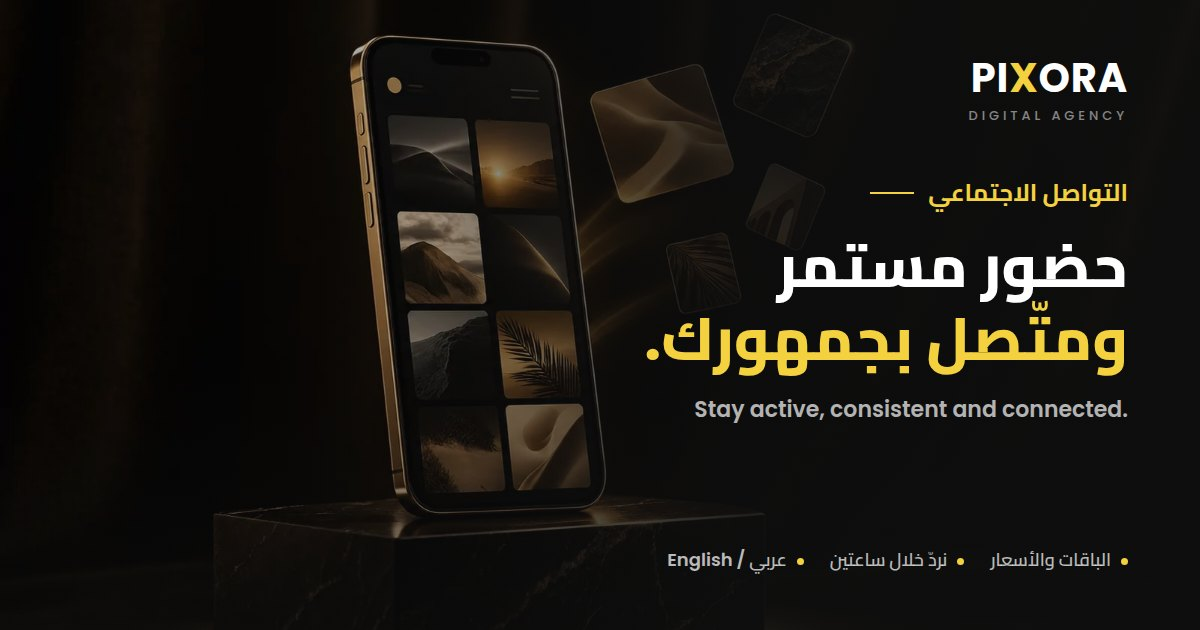
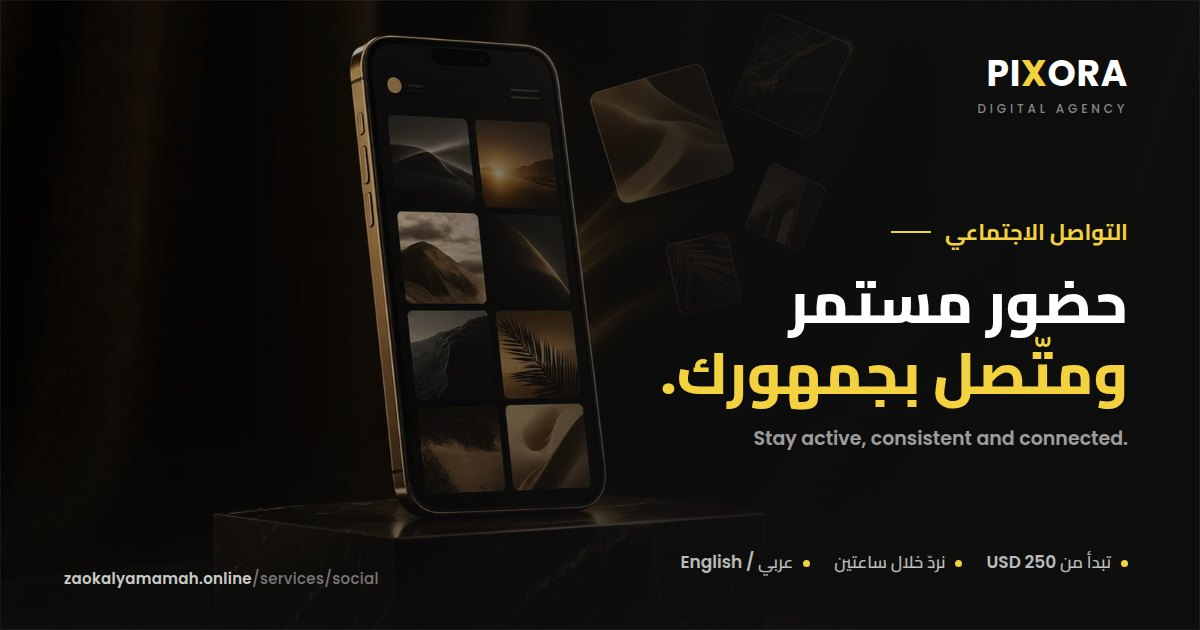
WIP: redesigned link-preview cards (awaiting owner review, not merged)
One design for every share image; own cards for story, about and pricing.
Held on this branch until the owner confirms; revert this commit to undo.

Claude-Session: https://claude.ai/code/session_01NJL9QvcoEBBfKSiRxG5s9B

diff --git a/tools/share-cards/base.css b/tools/share-cards/base.css
@@ -1,3 +1,8 @@
+/* One design for every link-preview card (1200×630), Arabic first:
+   the brand, an eyebrow, the page's own headline (its accent in yellow),
+   the English line, and a foot of facts; the page's address in the corner.
+   The visual sits opposite the text: work laid out like prints on a table
+   (the Story hero's language), or a page's cover photograph. */
 @font-face{font-family:Cairo;src:url(../../source/assets/fonts/cairo-arabic-var.woff2) format('woff2');font-weight:200 1000}
 @font-face{font-family:Poppins;src:url(../../source/assets/fonts/poppins-latin-500.woff2) format('woff2');font-weight:500}
 @font-face{font-family:Poppins;src:url(../../source/assets/fonts/poppins-latin-600.woff2) format('woff2');font-weight:600}
@@ -5,14 +10,29 @@
 *{box-sizing:border-box;margin:0}
 html,body{width:1200px;height:630px;overflow:hidden}
 body{background:#141414;color:#fff;font-family:Cairo,Poppins,sans-serif;position:relative}
-.glow{position:absolute;inset:0;background:radial-gradient(600px 420px at 78% 38%,rgba(244,209,63,.18),transparent 70%),radial-gradient(500px 200px at 70% 105%,rgba(244,209,63,.14),transparent 70%)}
-.brand{font-family:Poppins;font-weight:700;font-size:40px;letter-spacing:.02em;line-height:1}
+.glow{position:absolute;inset:0;background:radial-gradient(520px 420px at 24% 50%,var(--glow,rgba(244,209,63,.16)),transparent 72%)}
+.edge{position:absolute;inset:0;border:1px solid rgba(255,255,255,.06);pointer-events:none}
+.text{position:absolute;inset-block:56px 52px;inset-inline-start:72px;width:var(--text-w,540px);display:flex;flex-direction:column}
+.brand{font-family:Poppins;font-weight:700;font-size:36px;letter-spacing:.02em;line-height:1;direction:ltr;text-align:right}
 .brand b{color:#f4d13f}
-.tag{font-family:Poppins;font-weight:500;font-size:13px;letter-spacing:.3em;color:rgba(255,255,255,.5);margin-top:8px;text-transform:uppercase}
-.acc{color:#f4d13f}
-.pill{display:inline-flex;align-items:center;gap:10px;height:54px;padding:0 30px;border-radius:999px;background:#f4d13f;color:#202020;font-weight:700;font-size:22px}
-.pill--ghost{background:transparent;color:#fff;border:1.5px solid rgba(255,255,255,.3)}
-.frame{border-radius:16px;overflow:hidden;border:1px solid rgba(255,255,255,.12);background:#0e0e0e;box-shadow:0 30px 60px -20px rgba(0,0,0,.7)}
-.frame img{display:block;width:100%;height:100%;object-fit:cover}
-.meta{display:flex;gap:26px;font-size:18px;color:rgba(255,255,255,.72);font-weight:600}
-.meta span::before{content:"";display:inline-block;width:7px;height:7px;border-radius:50%;background:#f4d13f;margin-inline-end:10px;vertical-align:middle}
+.tag{font-family:Poppins;font-weight:500;font-size:12px;letter-spacing:.32em;color:rgba(255,255,255,.5);margin-top:8px;text-transform:uppercase;direction:ltr;text-align:right}
+.mid{margin-block:auto}
+.eyebrow{display:flex;align-items:center;gap:14px;color:#f4d13f;font-weight:700;font-size:22px}
+.eyebrow::after{content:"";width:40px;height:2px;background:currentColor}
+h1{font-size:var(--h1,58px);line-height:1.22;font-weight:800;margin-top:14px;text-wrap:balance}
+h1 .acc,h1 .c-detail__accent{color:#f4d13f}
+.en{font-family:Poppins;font-weight:600;font-size:19px;line-height:1.45;color:rgba(255,255,255,.62);margin-top:16px;direction:ltr;text-align:right}
+.foot{display:flex;gap:24px;font-size:17px;color:rgba(255,255,255,.72);font-weight:600}
+.foot span::before{content:"";display:inline-block;width:7px;height:7px;border-radius:50%;background:#f4d13f;margin-inline-end:10px;vertical-align:middle}
+.url{position:absolute;bottom:40px;left:64px;font-family:Poppins;font-weight:500;font-size:15px;letter-spacing:.02em;color:rgba(255,255,255,.46);direction:ltr}
+.url b{color:rgba(255,255,255,.8);font-weight:600}
+/* Prints on a table. */
+.prints{position:absolute;top:0;bottom:0;left:0;width:600px}
+.print{position:absolute;left:var(--x);top:var(--y);width:var(--w);height:var(--h,auto);rotate:var(--r,0deg);z-index:var(--z,1);border-radius:12px;overflow:hidden;box-shadow:0 0 0 1px rgba(255,255,255,.08),0 30px 60px -22px rgba(0,0,0,.85)}
+.print img{display:block;width:100%;height:100%;object-fit:cover;object-position:var(--pos,center)}
+.chip{position:absolute;z-index:9;display:inline-flex;align-items:center;gap:10px;background:rgba(20,20,20,.9);border:1px solid rgba(255,255,255,.14);border-radius:999px;padding:11px 20px;font-size:17px;font-weight:700}
+.chip::before{content:"";width:9px;height:9px;border-radius:50%;background:#7bc47f}
+/* A cover photograph behind the text. */
+.cover{position:absolute;inset:0}
+.cover img{width:100%;height:100%;object-fit:cover;object-position:var(--focus,center)}
+.shade{position:absolute;inset:0;background:linear-gradient(to left,rgba(14,14,14,.97) 0%,rgba(14,14,14,.9) 40%,rgba(14,14,14,.35) 68%,rgba(14,14,14,.12) 100%),linear-gradient(to top,rgba(14,14,14,.7),transparent 34%)}

diff --git a/tools/share-cards/go.html b/tools/share-cards/go.html
@@ -1,26 +1,29 @@
 <!doctype html><html lang="ar" dir="rtl"><head><meta charset="utf-8"><link rel="stylesheet" href="base.css"><style>
-.text{position:absolute;inset-block:60px 56px;inset-inline-start:72px;width:590px;display:flex;flex-direction:column}
-.eyebrow{display:flex;align-items:center;gap:14px;color:#f4d13f;font-weight:700;font-size:22px;margin-top:40px}
-.eyebrow::after{content:"";width:44px;height:2px;background:currentColor}
-h1{font-size:54px;line-height:1.25;font-weight:800;margin-top:16px}
-.tease{font-size:28px;font-weight:700;margin-top:18px}
-.ctas{display:flex;gap:14px;margin-top:auto}
-.visual{position:absolute;inset-inline-end:56px;top:70px;width:470px;height:490px}
-.big{position:absolute;inset:0 0 110px 0}
-.small{position:absolute;width:210px;height:250px;bottom:0;inset-inline-end:-10px;transform:rotate(4deg)}
-.badge{position:absolute;bottom:26px;inset-inline-start:20px;background:rgba(20,20,20,.92);border:1px solid rgba(255,255,255,.15);border-radius:999px;padding:12px 22px;font-size:18px;font-weight:700;display:flex;align-items:center;gap:10px}
-.badge::before{content:"";width:10px;height:10px;border-radius:50%;background:#7bc47f}
+body{--h1:52px;--text-w:580px}
+.p1{--x:40px;--y:52px;--w:360px;--r:-3deg;--z:1}
+.p2{--x:330px;--y:96px;--w:230px;--r:4deg;--z:2}
+.p3{--x:96px;--y:318px;--w:250px;--r:2deg;--z:3}
+.p4{--x:320px;--y:330px;--w:230px;--r:-2deg;--z:4}
+.chip{left:60px;bottom:96px}
+.ctas{display:flex;gap:14px}
+.pill{display:inline-flex;align-items:center;height:52px;padding:0 28px;border-radius:999px;background:#f4d13f;color:#202020;font-weight:700;font-size:21px}
+.pill--ghost{background:transparent;color:#fff;border:1.5px solid rgba(255,255,255,.3)}
 </style></head><body><div class="glow"></div>
-<div class="visual">
- <div class="frame big"><img src="../../source/assets/al-mada-identity-tile.webp"></div>
- <div class="frame small"><img src="../../source/assets/al-mada-campaign-tile.webp" style="object-position:top"></div>
- <div class="badge">نردّ خلال ساعتين</div>
+<div class="prints">
+ <div class="print p1"><img src="../../source/assets/al-mada-website-tile.webp"></div>
+ <div class="print p2"><img src="../../source/assets/work-4.webp"></div>
+ <div class="print p3"><img src="../../source/assets/work-3.webp"></div>
+ <div class="print p4"><img src="../../source/assets/work-5.webp"></div>
+ <span class="chip">نردّ خلال ساعتين</span>
 </div>
 <div class="text">
  <div><div class="brand">PI<b>X</b>ORA</div><div class="tag">Digital Agency</div></div>
- <p class="eyebrow">شريكك الرقمي الإبداعي</p>
- <h1>هوية، موقع، محتوى وإعلانات<br><span class="acc">من فريق واحد.</span></h1>
- <p class="tease">والفرق؟ ستلاحظه من أول نظرة.</p>
+ <div class="mid">
+  <p class="eyebrow">شريكك الرقمي الإبداعي</p>
+  <h1>هوية، موقع، محتوى وإعلانات<br><span class="acc">من فريق واحد.</span></h1>
+  <p class="en">Brand, website, content and ads — from one team.</p>
+ </div>
  <div class="ctas"><span class="pill">شوف أعمالنا ←</span><span class="pill pill--ghost">تواصل على واتساب</span></div>
 </div>
+<p class="url"><b>zaokalyamamah.online</b>/go</p><div class="edge"></div>
 </body></html>

diff --git a/tools/share-cards/home.html b/tools/share-cards/home.html
@@ -1,24 +1,23 @@
 <!doctype html><html lang="ar" dir="rtl"><head><meta charset="utf-8"><link rel="stylesheet" href="base.css"><style>
-.text{position:absolute;inset-block:64px;inset-inline-start:72px;width:560px;display:flex;flex-direction:column}
-h1{font-size:62px;line-height:1.18;font-weight:800;margin-top:44px}
-.en{font-family:Poppins;font-weight:600;font-size:20px;color:rgba(255,255,255,.55);direction:ltr;text-align:right;margin-top:18px}
-.tease{font-size:25px;font-weight:600;color:rgba(255,255,255,.85);margin-top:22px}
-.meta{margin-top:auto}
-.grid{position:absolute;inset-inline-end:60px;top:60px;width:470px;height:510px;display:grid;grid-template-columns:1.25fr 1fr;grid-template-rows:1fr 1fr 1fr;gap:14px;transform:rotate(-3deg)}
-.a{grid-row:1/span 2}.d{grid-column:1/span 2}
-.url{position:absolute;left:72px;bottom:30px;font-family:Poppins;font-weight:500;font-size:16px;color:rgba(255,255,255,.4);direction:ltr}
+.p1{--x:44px;--y:58px;--w:300px;--r:-4deg;--z:1}
+.p2{--x:300px;--y:40px;--w:250px;--r:3deg;--z:2}
+.p3{--x:70px;--y:300px;--w:320px;--r:2deg;--z:3}
+.p4{--x:360px;--y:300px;--w:205px;--r:-3deg;--z:4}
 </style></head><body><div class="glow"></div>
-<div class="grid">
- <div class="frame a"><img src="../../source/assets/al-mada-identity-tile.webp"></div>
- <div class="frame"><img src="../../source/assets/work-4.webp"></div>
- <div class="frame"><img src="../../source/assets/al-mada-campaign-tile.webp" style="object-position:top"></div>
- <div class="frame d"><img src="../../source/assets/al-mada-website-tile.webp"></div>
+<div class="prints">
+ <div class="print p1"><img src="../../source/assets/work-7.webp"></div>
+ <div class="print p2"><img src="../../source/assets/work-2.webp"></div>
+ <div class="print p3"><img src="../../source/assets/work-6.webp"></div>
+ <div class="print p4"><img src="../../source/assets/work-1.webp"></div>
 </div>
 <div class="text">
  <div><div class="brand">PI<b>X</b>ORA</div><div class="tag">Digital Agency</div></div>
- <h1>علامتك.<br>حضورك الرقمي.<br><span class="acc">شريك واحد.</span></h1>
- <p class="tease">والفرق؟ ستلاحظه من أول نظرة.</p>
- <p class="en">Your Brand. Your Digital Presence. One Partner.</p>
- <div class="meta"><span>الهوية</span><span>المواقع</span><span>التواصل</span><span>الإعلانات</span></div>
+ <div class="mid">
+  <p class="eyebrow">شريكك الرقمي الإبداعي</p>
+  <h1>علامتك.<br>حضورك الرقمي.<br><span class="acc">شريك واحد.</span></h1>
+  <p class="en">Your Brand. Your Digital Presence. One Partner.</p>
+ </div>
+ <div class="foot"><span>الهوية</span><span>المواقع</span><span>التواصل</span><span>الإعلانات</span></div>
 </div>
+<p class="url"><b>zaokalyamamah.online</b></p><div class="edge"></div>
 </body></html>

diff --git a/tools/share-cards/service.html b/tools/share-cards/service.html
@@ -1,22 +1,16 @@
 <!doctype html><html lang="ar" dir="rtl"><head><meta charset="utf-8"><link rel="stylesheet" href="base.css"><style>
 /* One card per service: its cover, its name and its headline (filled in by render.mjs from the built page). */
-.cover{position:absolute;inset:0}
-.cover img{width:100%;height:100%;object-fit:cover;object-position:var(--focus,center)}
-.shade{position:absolute;inset:0;background:linear-gradient(to left,rgba(14,14,14,.96) 0%,rgba(14,14,14,.88) 38%,rgba(14,14,14,.35) 66%,rgba(14,14,14,.1) 100%),linear-gradient(to top,rgba(14,14,14,.55),transparent 40%)}
-.text{position:absolute;inset-block:58px 54px;inset-inline-start:72px;width:560px;display:flex;flex-direction:column}
-.eyebrow{display:flex;align-items:center;gap:14px;color:#f4d13f;font-weight:700;font-size:24px;margin-top:44px}
-.eyebrow::after{content:"";width:44px;height:2px;background:currentColor}
-h1{font-size:60px;line-height:1.22;font-weight:800;margin-top:14px}
-h1 .c-detail__accent{color:#f4d13f}
-.en{font-family:Poppins;font-weight:600;font-size:22px;color:rgba(255,255,255,.7);margin-top:18px;direction:ltr;text-align:right}
-.meta{margin-top:auto}
+body{--text-w:560px}
 </style></head><body>
 <div class="cover"><img id="img"></div><div class="shade"></div>
 <div class="text">
  <div><div class="brand">PI<b>X</b>ORA</div><div class="tag">Digital Agency</div></div>
- <p class="eyebrow" id="name"></p>
- <h1 id="h1"></h1>
- <p class="en" id="en"></p>
- <div class="meta"><span>الباقات والأسعار</span><span>نردّ خلال ساعتين</span><span>عربي / English</span></div>
+ <div class="mid">
+  <p class="eyebrow" id="name"></p>
+  <h1 id="h1"></h1>
+  <p class="en" id="en"></p>
+ </div>
+ <div class="foot"><span id="from"></span><span>نردّ خلال ساعتين</span><span>عربي / English</span></div>
 </div>
+<p class="url"><b>zaokalyamamah.online</b><span id="path"></span></p><div class="edge"></div>
 </body></html>

diff --git a/tools/share-cards/pricing.html b/tools/share-cards/pricing.html
@@ -1,0 +1,25 @@
+<!doctype html><html lang="ar" dir="rtl"><head><meta charset="utf-8"><link rel="stylesheet" href="base.css"><style>
+body{--h1:50px;--text-w:560px}
+/* Filled by render.mjs from the built pricing page. */
+.tiles{position:absolute;left:56px;top:50px;width:500px;display:grid;grid-template-columns:1fr 1fr;gap:18px;rotate:-2deg}
+.tile{background:#202020;border:1px solid rgba(255,255,255,.1);border-radius:16px;padding:20px 24px 18px;box-shadow:0 30px 60px -24px rgba(0,0,0,.85);display:flex;flex-direction:column;gap:6px;min-height:188px}
+.tile:nth-child(2){translate:0 26px}.tile:nth-child(4){translate:0 26px}
+.tile:first-child{background:#f4d13f;color:#202020;border-color:transparent}
+.tile__name{font-size:21px;font-weight:800;line-height:1.3}
+.tile__from{font-size:15px;opacity:.65;margin-top:auto}
+.tile__price{font-family:Poppins;font-weight:700;font-size:54px;line-height:1;direction:ltr;text-align:right}
+.tile__price small{font-size:17px;font-weight:600;opacity:.7;margin-left:8px}
+.tile__billing{font-size:15px;font-weight:700;opacity:.7}
+</style></head><body><div class="glow"></div>
+<div class="tiles" id="tiles"></div>
+<div class="text">
+ <div><div class="brand">PI<b>X</b>ORA</div><div class="tag">Digital Agency</div></div>
+ <div class="mid">
+  <p class="eyebrow">الأسعار</p>
+  <h1>كم يكلّف المشروع،<br><span class="acc">وما الذي يغيّر السعر.</span></h1>
+  <p class="en">Every package and its price, published in full.</p>
+ </div>
+ <div class="foot"><span>أسعار منشورة</span><span>كوّن باقتك</span><span>بلا رسوم خفية</span></div>
+</div>
+<p class="url"><b>zaokalyamamah.online</b>/pricing</p><div class="edge"></div>
+</body></html>

diff --git a/tools/share-cards/story.html b/tools/share-cards/story.html
@@ -1,0 +1,24 @@
+<!doctype html><html lang="ar" dir="rtl"><head><meta charset="utf-8"><link rel="stylesheet" href="base.css"><style>
+body{--glow:rgba(10,79,183,.3)}
+.p1{--x:40px;--y:44px;--w:330px;--r:-3deg;--z:1}
+.p2{--x:196px;--y:168px;--w:370px;--r:2.5deg;--z:3}
+.p3{--x:34px;--y:236px;--w:168px;--r:-4deg;--z:2}
+.p4{--x:120px;--y:398px;--w:300px;--r:1deg;--z:4}
+</style></head><body><div class="glow"></div>
+<div class="prints">
+ <div class="print p1"><img src="../../source/assets/al-mada-identity-tile.webp"></div>
+ <div class="print p2"><img src="../../source/assets/al-mada-website-tile.webp"></div>
+ <div class="print p3"><img src="../../source/assets/al-mada-campaign-tile.webp"></div>
+ <div class="print p4"><img src="../../source/assets/al-mada-profile-tile.webp"></div>
+</div>
+<div class="text">
+ <div><div class="brand">PI<b>X</b>ORA</div><div class="tag">Digital Agency</div></div>
+ <div class="mid">
+  <p class="eyebrow">دراسة حالة · وكالة المدى</p>
+  <h1>هوية واحدة،<br><span class="acc">أربع واجهات.</span></h1>
+  <p class="en">One brand, four surfaces — what one partner made for Al Mada Travel &amp; Tourism.</p>
+ </div>
+ <div class="foot"><span>الهوية</span><span>الموقع</span><span>الحملة</span><span>الملف التعريفي</span></div>
+</div>
+<p class="url"><b>zaokalyamamah.online</b>/story</p><div class="edge"></div>
+</body></html>

diff --git a/tools/share-cards/about.html b/tools/share-cards/about.html
@@ -1,0 +1,18 @@
+<!doctype html><html lang="ar" dir="rtl"><head><meta charset="utf-8"><link rel="stylesheet" href="base.css"><style>
+body{--h1:54px;--text-w:600px}
+.cover{right:auto;width:820px}
+.cover img{object-position:40% 50%}
+.shade{background:linear-gradient(to left,#141414 0%,#141414 34%,rgba(20,20,20,.55) 56%,rgba(20,20,20,.12) 80%),linear-gradient(to top,rgba(14,14,14,.75),transparent 34%)}
+</style></head><body>
+<div class="cover"><img src="../../source/assets/about4.webp"></div><div class="shade"></div>
+<div class="text">
+ <div><div class="brand">PI<b>X</b>ORA</div><div class="tag">Digital Agency</div></div>
+ <div class="mid">
+  <p class="eyebrow">من نحن</p>
+  <h1>استوديو يعمل عن بُعد<br><span class="acc">في الخليج ومصر.</span></h1>
+  <p class="en">A remote studio for the Gulf and Egypt.</p>
+ </div>
+ <div class="foot"><span>فريق واحد</span><span>عربي / English</span><span>نردّ خلال ساعتين</span></div>
+</div>
+<p class="url"><b>zaokalyamamah.online</b>/about</p><div class="edge"></div>
+</body></html>

diff --git a/tools/apply-site-refinements.py b/tools/apply-site-refinements.py
@@ -114,10 +114,6 @@ TEXT = [
      '<span data-lang-copy="en">Visual Communications Designer</span><span data-lang-copy="ar" lang="ar">مصمم اتصال بصري</span>'),
     ("Muhalab Salah", "Muhalab Basheir"),
     ("مهلب صلاح", "مهلب بشير"),
-    # Link preview: the homepage card (tools/share-cards/home.html).
-    ("https://zaokalyamamah.online/assets/share-card.jpg", "https://zaokalyamamah.online/assets/share-home.jpg"),
-    ('<meta property="og:image:alt" content="Pixora — your brand, your digital presence, one partner" />',
-     '<meta property="og:image:alt" content="Pixora — علامتك. حضورك الرقمي. شريك واحد. Your brand, your digital presence, one partner." />'),
     # Hero: shorter, and it leaves something to discover.
     ('''<p class="t-body-lg c-hero__lead"><span data-lang-copy="en">A remote studio for the Gulf and Egypt.
               We build brands, websites and digital experiences —
@@ -125,6 +121,17 @@ TEXT = [
               marketing to help your business grow.</span><span data-lang-copy="ar" lang="ar">استوديو يعمل عن بُعد في الخليج ومصر. نبني العلامات والمواقع والتجارب الرقمية، ثم نربطها بالمحتوى ووسائل التواصل والتسويق الأدائي لينمو عملك.</span></p>''',
      '''<p class="t-body-lg c-hero__lead"><span data-lang-copy="en">Brand, website, content and ads — from one team.<br /><span class="c-hero__tease">The difference? You'll see it at first glance.</span></span><span data-lang-copy="ar" lang="ar">هوية، موقع، محتوى وإعلانات — من فريق واحد.<br /><span class="c-hero__tease">والفرق؟ ستلاحظه من أول نظرة.</span></span></p>'''),
 ]
+
+# Link previews (tools/share-cards): each page its own card; the pages
+# without one (privacy, terms, accessibility, 404) show the homepage's.
+SHARE_OLD = "https://zaokalyamamah.online/assets/share-card.jpg"
+ALT_OLD = '<meta property="og:image:alt" content="Pixora — your brand, your digital presence, one partner" />'
+SHARE = {
+    "story.html": ("share-story.jpg", "Al Mada — one brand, four surfaces / هوية واحدة، أربع واجهات"),
+    "about.html": ("share-about.jpg", "Pixora — a remote studio for the Gulf and Egypt / استوديو يعمل عن بُعد في الخليج ومصر"),
+    "pricing.html": ("share-pricing.jpg", "Pixora pricing — every package and its price / كم يكلّف المشروع، وما الذي يغيّر السعر"),
+}
+HOME_CARD = ("share-home.jpg", "Pixora — علامتك. حضورك الرقمي. شريك واحد. Your brand, your digital presence, one partner.")
 
 # Privacy: the campaign form (go.html → lead.php) does reach a server.
 PRIVACY = [
@@ -186,6 +193,10 @@ for name in PAGES:
     text = replace_all(text, TEXT[:1], name, required=True)
     if name == "index.html":
         text = replace_all(text, TEXT[3:], name, required=True)
+    if not name.startswith("services/") and SHARE_OLD in text:
+        card, alt = SHARE.get(name, HOME_CARD)
+        text = text.replace(SHARE_OLD, f"https://zaokalyamamah.online/assets/{card}")
+        text = replace_all(text, [(ALT_OLD, f'<meta property="og:image:alt" content="{alt}" />')], name, required=True)
     if name == "privacy.html":
         text = replace_all(text, PRIVACY, name, required=True)
     text = clean_links(text)
@@ -206,6 +217,10 @@ for name in PAGES:
 
     path.write_text(text, encoding="utf-8")
 print(f"refinements: {len(PAGES)} pages")
+# The supplied generic preview card: every page now names its own.
+if any(SHARE_OLD in (SITE / n).read_text(encoding="utf-8") for n in PAGES):
+    sys.exit("refinements: a page still uses share-card.jpg")
+(SITE / "assets" / "share-card.jpg").unlink()
 
 # robots.txt: private endpoints stay out of search.
 robots = SITE / "robots.txt"
